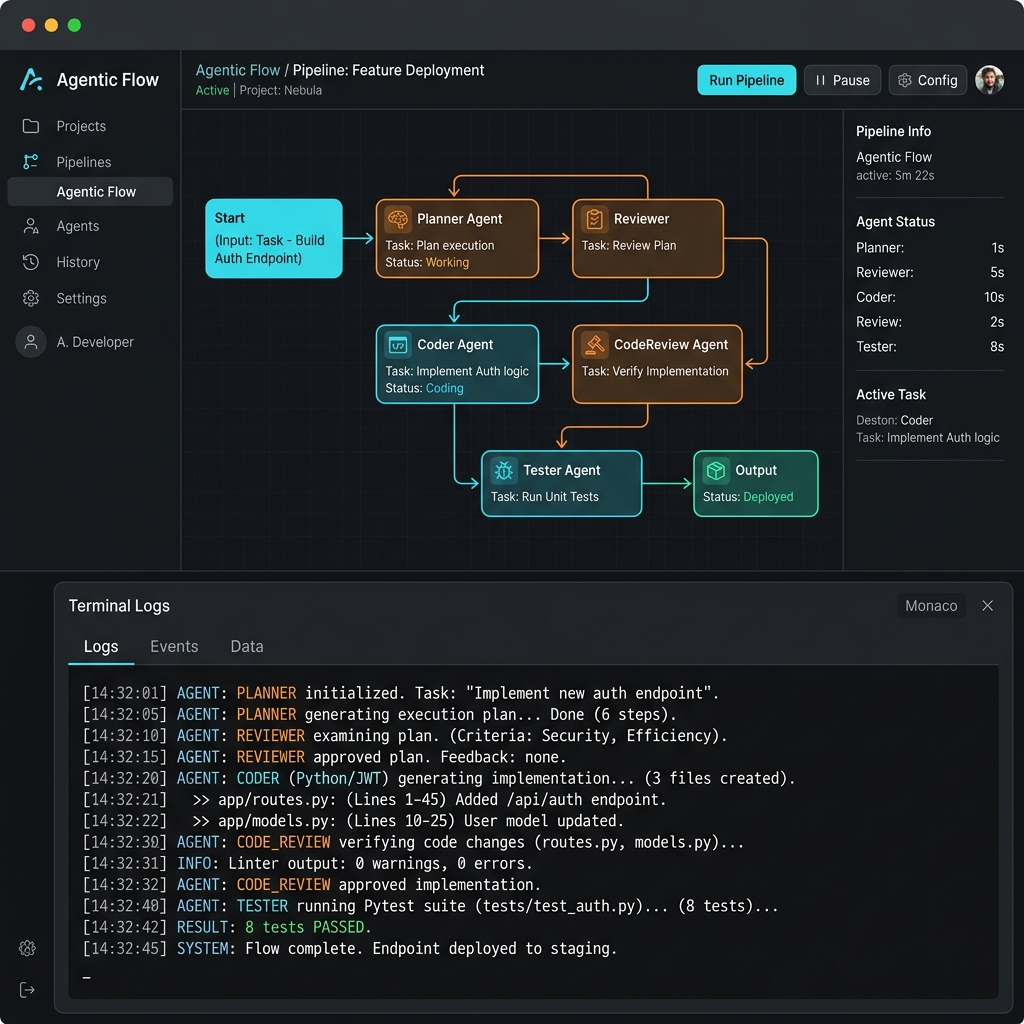
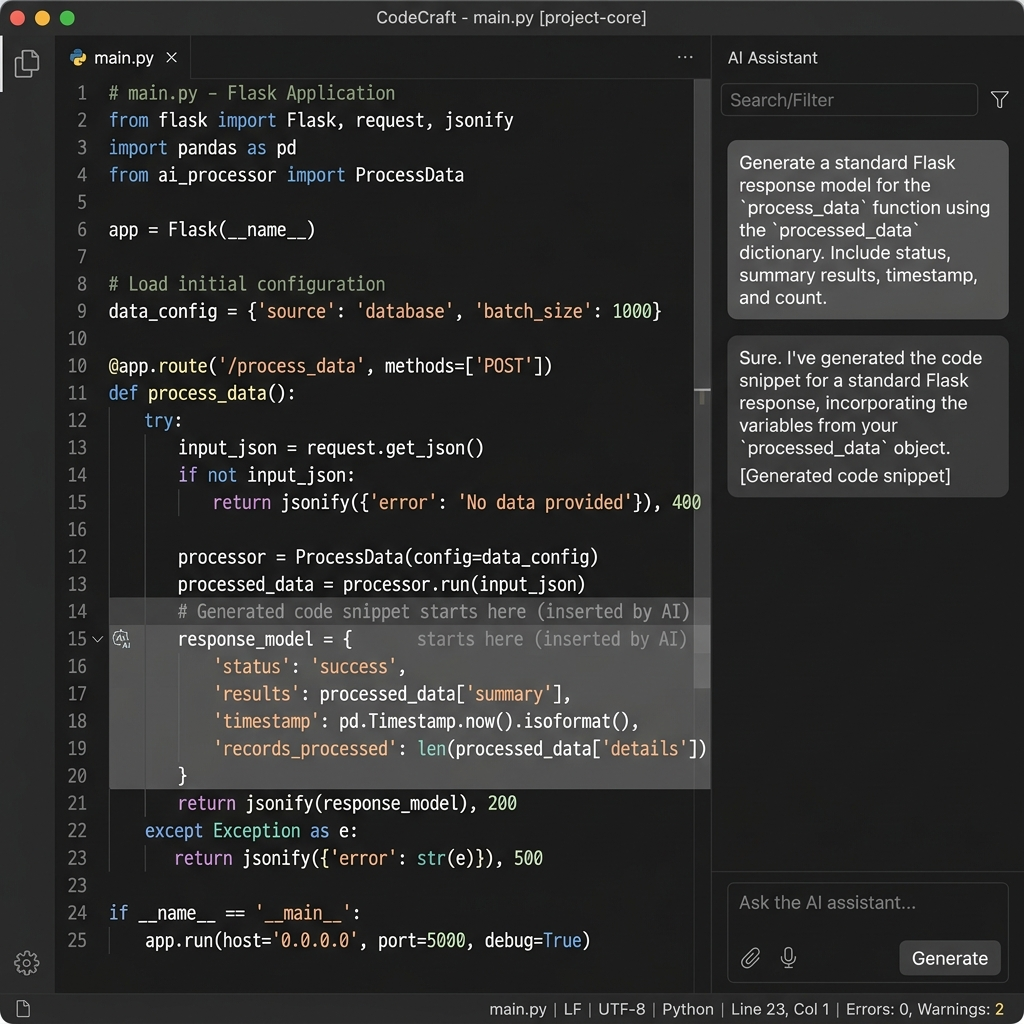
Adding more projects

diff --git a/index.html b/index.html
@@ -801,11 +801,10 @@
 
     .project-card .top {
       display: flex;
-      justify-content: space-between;
+      flex-direction: column;
       align-items: flex-start;
-      gap: 16px;
-      margin-bottom: 12px;
-      flex-wrap: wrap;
+      gap: 12px;
+      margin-bottom: 14px;
     }
 
     .project-card h3 {
@@ -846,6 +845,31 @@
     .project-card .link-spark:hover {
       background: var(--spark);
       color: #fff;
+    }
+
+    .project-card .link-try {
+      background: linear-gradient(135deg, var(--signal), var(--spark));
+      color: #fff;
+      border: 1px solid transparent;
+      font-weight: 500;
+      box-shadow: 0 4px 12px rgba(var(--spotlight-rgb), 0.2);
+    }
+
+    .project-card .link-try:hover {
+      transform: translateY(-2px);
+      box-shadow: 0 6px 16px rgba(var(--spotlight-rgb), 0.4);
+      color: #fff;
+    }
+
+    .project-card .link-github {
+      color: var(--ink);
+      border-color: var(--line);
+      background: var(--bg-alt);
+    }
+
+    .project-card .link-github:hover {
+      background: var(--line);
+      color: var(--ink);
     }
 
     .project-card p {
@@ -1527,10 +1551,8 @@
             <div class="top">
               <h3>Comparative RAG Portfolio Agent</h3>
               <div class="action-group">
-                <button class="link link-spark"
-                  onclick="toggleChatbotDrawer('https://pradhyumn-rag-portfolio.streamlit.app/?embed=true')">⚡ Try
-                  Streamlit App</button>
-                <a class="link" href="https://github.com/kalpit-22" target="_blank" rel="noopener"
+                <a class="link link-try" href="https://pradhyumn-rag-portfolio.streamlit.app/" target="_blank" rel="noopener">⚡ Try Streamlit App</a>
+                <a class="link link-github" href="https://github.com/kalpit-22" target="_blank" rel="noopener"
                   aria-label="View RAG Portfolio on GitHub">View GitHub →</a>
               </div>
             </div>
@@ -1557,7 +1579,7 @@
           <div class="project-body">
             <div class="top">
               <h3>DevPilot</h3>
-              <a class="link" href="https://github.com/kalpit-22" target="_blank" rel="noopener"
+              <a class="link link-github" href="https://github.com/kalpit-22" target="_blank" rel="noopener"
                 aria-label="View DevPilot on GitHub">View GitHub →</a>
             </div>
             <p>Autonomous multi-agent system that plans, generates, executes, and reviews code from natural language
@@ -1572,20 +1594,54 @@
             </div>
           </div>
         </div>
-      </div>
-    </div>
-  </section>
 
-  <section id="live-demo">
-    <div class="wrap">
-      <div class="signal-divider">
-        <span class="label">Live Agent Demo</span>
-        <div class="rule"></div>
-      </div>
-      <div
-        style="width: 100%; height: 75vh; min-height: 600px; border: 1px solid var(--line); border-radius: 12px; overflow: hidden; box-shadow: 0 20px 40px -15px var(--shadow-color); background: var(--bg-alt);">
-        <iframe src="https://agent-frontend.livelystone-d34cd2e4.centralindia.azurecontainerapps.io/" width="100%"
-          height="800px" style="border: none; border-radius: 12px;" title="DeepResearch AI"></iframe>
+        <!-- Project 3 -->
+        <div class="project-card" data-category="agent">
+          <div class="project-img-container">
+            <img src="assets/datapilot-project.png" alt="DataPilot Preview" onerror="this.style.display='none'">
+          </div>
+          <div class="project-body">
+            <div class="top">
+              <h3>DataPilot: Autonomous Data Analyst</h3>
+              <div class="action-group">
+                <a class="link link-github" href="https://github.com/kalpit-22/data_analysis_tool_DS" target="_blank" rel="noopener" aria-label="View DataPilot Cloud on GitHub">Azure Cloud Version (GitHub) →</a>
+                <a class="link link-github" href="https://github.com/kalpit-22/data_analysis_agents" target="_blank" rel="noopener" aria-label="View DataPilot Local on GitHub">Local AI Version (GitHub) →</a>
+                <a class="link link-try" href="https://data-pilot-kalpit22.azurewebsites.net/" target="_blank" rel="noopener">⚡ Try Azure App</a>
+              </div>
+            </div>
+            <p>An autonomous, self-correcting data analysis assistant powered by a dual-LLM architecture. Takes a CSV and plain-English query, then plans, executes, and self-corrects until completion. Built in two variants: a localized version using Qwen3-8B and a premium cloud-hosted version running DeepSeek models on Azure.</p>
+            <div class="tags">
+              <span class="tag-agent">DeepSeek / Qwen3</span>
+              <span class="tag-agent">Self-Correcting</span>
+              <span class="tag-llm">Python</span>
+              <span class="tag-infra">Azure</span>
+            </div>
+          </div>
+        </div>
+
+        <!-- Project 4 -->
+        <div class="project-card" data-category="agent">
+          <div class="project-img-container">
+            <img src="assets/webscraper-project.png" alt="Web Research Agent Preview" onerror="this.style.display='none'">
+          </div>
+          <div class="project-body">
+            <div class="top">
+              <h3>Web Research Agent</h3>
+              <div class="action-group">
+                <a class="link link-github" href="https://github.com/kalpit-22/webscrapping_ai_cloud" target="_blank" rel="noopener" aria-label="View Cloud WebScraper on GitHub">Azure Cloud Version (GitHub) →</a>
+                <a class="link link-github" href="https://github.com/kalpit-22/webscrapping_ai" target="_blank" rel="noopener" aria-label="View Local WebScraper on GitHub">Local AI Version (GitHub) →</a>
+                <a class="link link-try" href="https://agent-frontend.livelystone-d34cd2e4.centralindia.azurecontainerapps.io/" target="_blank" rel="noopener">⚡ Try Azure App</a>
+              </div>
+            </div>
+            <p>A fully autonomous web research agent that plans queries, scrapes content, filters irrelevancies, and synthesizes comprehensive markdown reports. Available as a privacy-focused local version powered by llama.cpp (Qwen3-14B) and a scalable cloud version deployed on Azure infrastructure.</p>
+            <div class="tags">
+              <span class="tag-agent">Web Scraping</span>
+              <span class="tag-agent">llama.cpp</span>
+              <span class="tag-llm">Qwen3-14B</span>
+              <span class="tag-infra">Azure</span>
+            </div>
+          </div>
+        </div>
       </div>
     </div>
   </section>
